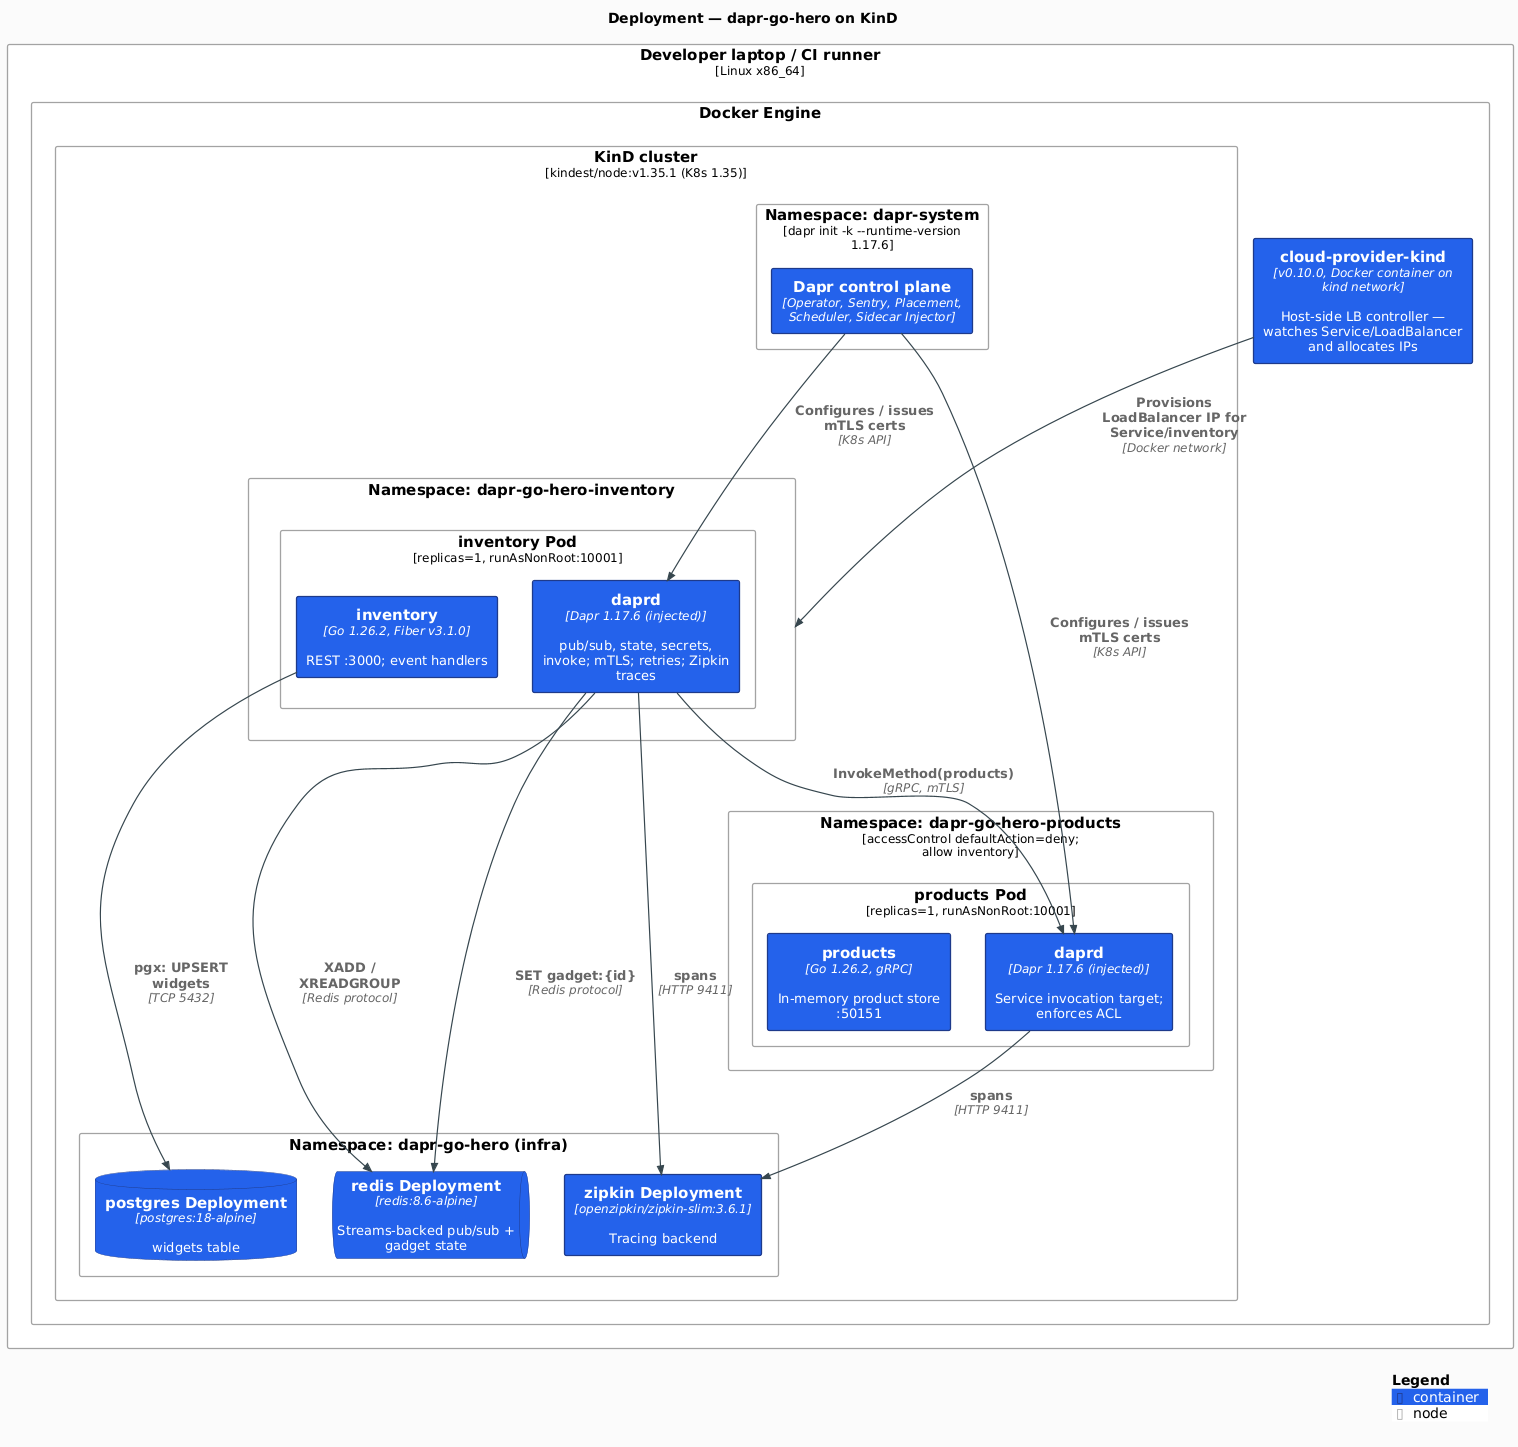
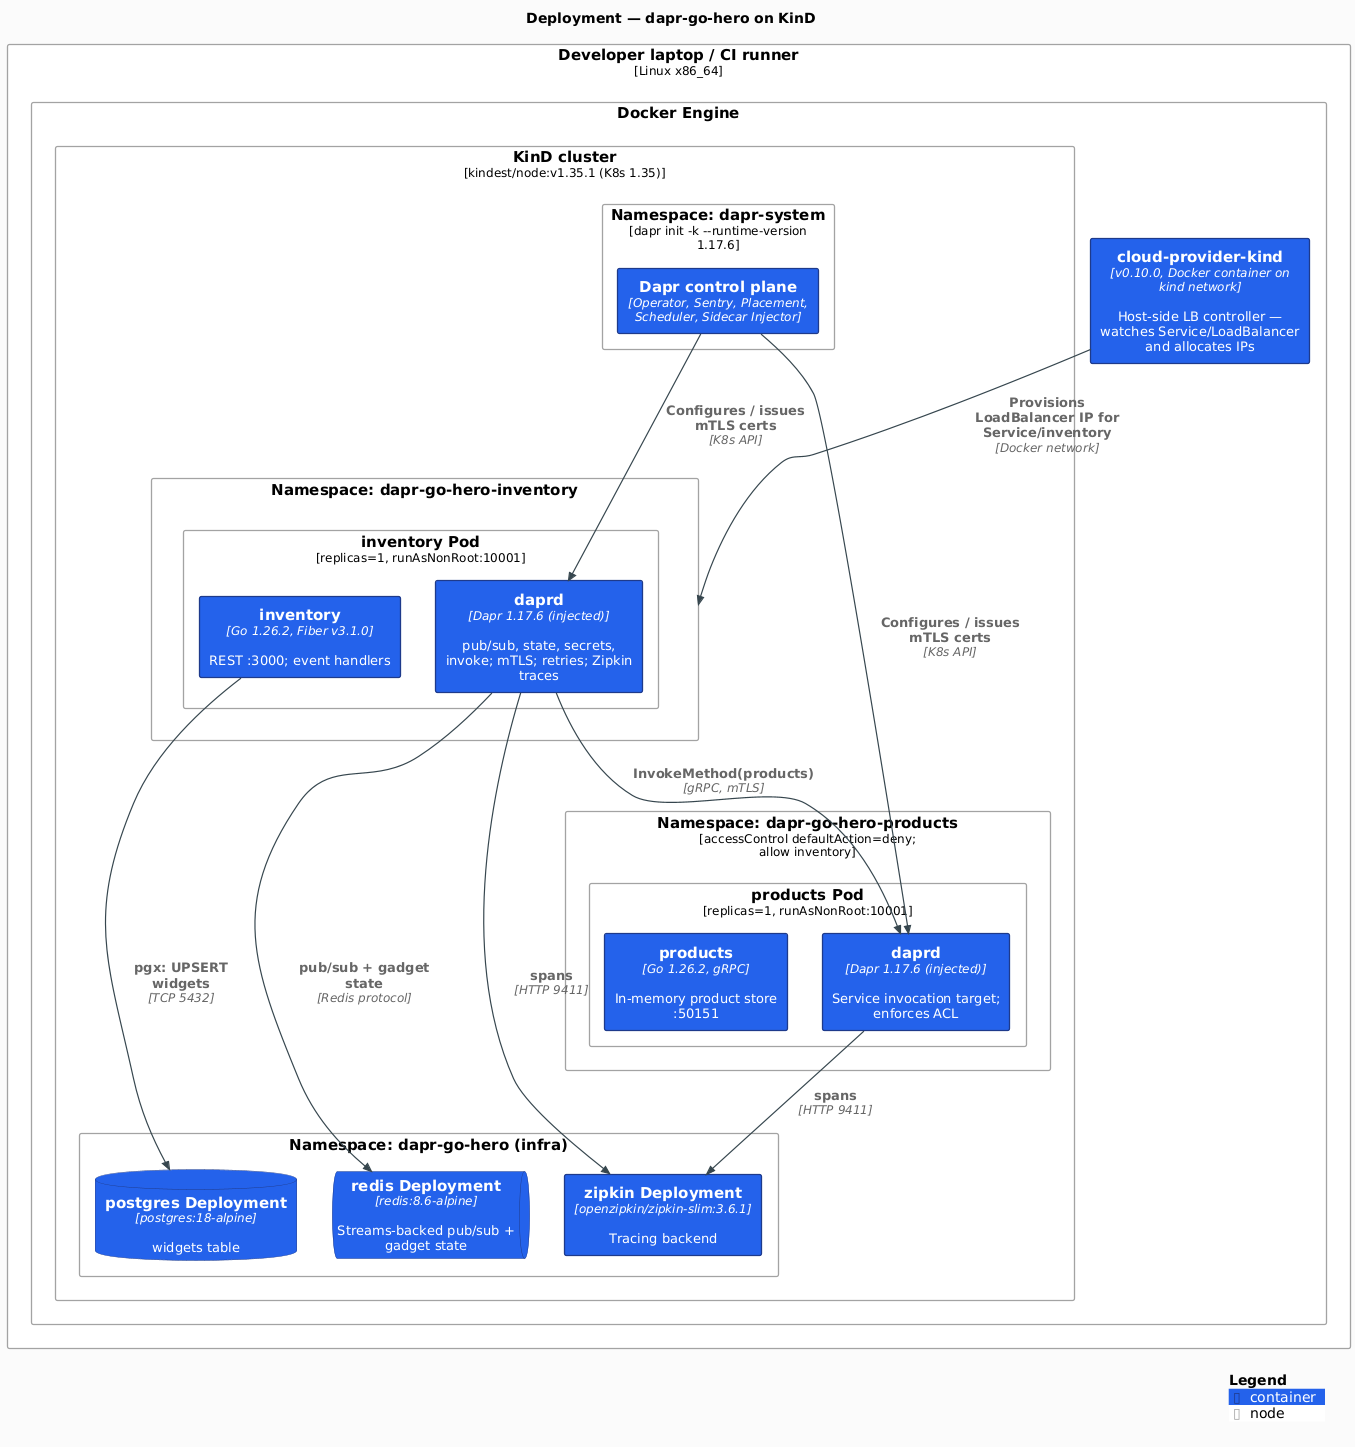
docs: tighten README + collapse duplicate-pair Rel arrows in C4 diagrams
README:
- Replace slug-as-title with descriptive H1
- Fix factual error: description said three client modes, project ships four
  (sdk-http, sdk-grpc, custom-http, custom-grpc)
- Tighten Tech Stack rationale (mise + Renovate rows), Quick Start intro,
  loadDotenv parenthetical
- Resolve duplicate Event-Flow heading collision (H2 + H3 slugged identically)
- Fold standalone "Local dev setup" H2 into Quick Start Option B

Diagrams:
- Merge per-route trigger arrows in c4-container (3 stacked arrows
  between inventory and inv_dapr -> 1 arrow with multi-line label)
- Merge bidirectional redis arrows + pub/sub vs state arrows into
  Rel_Neighbor (drops c4-container from 26 -> 21 elements)
- Same merge applied to c4-deployment (27 -> 26 elements)

No semantic loss; both diagrams still over Simon Brown's 15-element soft
cap because the multi-namespace topology is irreducible at this level.

diff --git a/README.md b/README.md
@@ -3,9 +3,9 @@
 [![License: MIT](https://img.shields.io/badge/License-MIT-brightgreen.svg)](https://opensource.org/licenses/MIT)
 [![Renovate enabled](https://img.shields.io/badge/renovate-enabled-brightgreen.svg)](https://app.renovatebot.com/dashboard#github/AndriyKalashnykov/dapr-go-hero)
 
-# dapr-go-hero
+# Dapr Building Blocks in Go — Reference Microservice Platform
 
-Reference implementation of a Go microservice platform on [Dapr](https://dapr.io), comparing three client approaches (custom HTTP, custom gRPC, Dapr Go SDK) across four Dapr building blocks: Pub/Sub with content-based routing, State Store, Secret Store, and Service Invocation. Production-ready K8s deployment with KinD + cloud-provider-kind for local parity, Testcontainers-backed integration tests, and a CI pipeline that provisions a full Dapr cluster on every PR.
+Reference implementation of a Go microservice platform on [Dapr](https://dapr.io), comparing four client modes (custom HTTP, custom gRPC, Dapr Go SDK over HTTP, Dapr Go SDK over gRPC) across four Dapr building blocks: Pub/Sub with content-based routing, State Store, Secret Store, and Service Invocation. Ships with Kubernetes manifests, KinD + cloud-provider-kind for local parity with cloud LoadBalancer behaviour, Testcontainers-backed integration tests, and a CI pipeline that provisions a full Dapr cluster on every PR.
 
 <p align="center"><img src="docs/diagrams/out/c4-context.png" alt="C4 System Context: dapr-go-hero fans CloudEvents to Redis, PostgreSQL, Zipkin, and the Kubernetes Secret API" width="720"></p>
 
@@ -25,9 +25,9 @@ Reference implementation of a Go microservice platform on [Dapr](https://dapr.io
 | Secrets | `secretstores.kubernetes` (K8s-native) | RBAC-scoped; no external Vault dependency |
 | Resiliency | Dapr `Resiliency` CRD | Declarative retries, timeouts, circuit breakers per target app/component |
 | Test layers | Unit (Go testing), Integration (Testcontainers), E2E (KinD + curl) | Each layer catches a different class of defect |
-| Tool versioning | [mise](https://mise.jdx.dev) | Single source of truth for every CLI: Go, kind, golangci-lint, gosec, hadolint, trivy, gitleaks, actionlint, shellcheck, act, protoc, protoc-gen-* — pinned in `.mise.toml`, installed by `make deps` |
+| Tool versioning | [mise](https://mise.jdx.dev) | Single source of truth for every CLI; pinned in `.mise.toml`, installed by `make deps` |
 | Code quality | golangci-lint, gosec, hadolint, mermaid-cli | Enforced via composite `make static-check` gate |
-| Dependency updates | [Renovate](https://docs.renovatebot.com/) | Built-in `gomod` / `github-actions` / `dockerfile` / `kubernetes` / `mise` managers + custom-regex coverage of Makefile constants, workflow `with:` pins, and `tests/*.sh` image pins |
+| Dependency updates | [Renovate](https://docs.renovatebot.com/) | Built-in `gomod`/`github-actions`/`dockerfile`/`kubernetes`/`mise` managers plus custom-regex coverage of Makefile constants and shell-script image pins |
 
 ## Building Blocks Demonstrated
 
@@ -40,7 +40,7 @@ Reference implementation of a Go microservice platform on [Dapr](https://dapr.io
 
 ## Quick Start
 
-Two delivery modes. Kubernetes (Option A) is closest to production; local dev (Option B) iterates faster on single-binary changes.
+Two delivery modes: Kubernetes (Option A) mirrors the production deployment path; local dev (Option B) gives a faster inner loop on single-binary changes.
 
 ### Option A — Kubernetes (KinD + cloud-provider-kind + Dapr)
 
@@ -72,19 +72,36 @@ curl http://localhost:3000/v1/products/thingamajig | jq
 
 ### Option B — Local dev (standalone binaries)
 
-Single-binary processes with a Dapr sidecar each. Useful for tight feedback loops on code changes.
+Single-binary processes with a Dapr sidecar each. Faster inner loop for code changes.
+
+One-time setup — PostgreSQL container + schema:
 
 ```bash
-make deps           # install mise + pinned tool versions
-make build          # compile both binaries
-make test           # unit tests
-make run-products   # terminal 1: products gRPC service
-make run            # terminal 2: inventory service (default: SDK HTTP mode)
-make send-all       # terminal 3: publish 3 CloudEvents
-make get-all        # query REST endpoints
+docker run --name postgres -e POSTGRES_PASSWORD=postgres -p 5432:5432 -d postgres:16
+cat tables.sql | docker exec -i postgres psql -U postgres -d postgres
 ```
 
-Local dev requires a running PostgreSQL container and `secrets.json`. See [Local dev setup](#local-dev-setup).
+Run the stack (three terminals):
+
+```bash
+make deps           # install mise + pinned tool versions (first run only)
+make build          # compile both binaries
+
+# Terminal 1
+make run-products
+
+# Terminal 2 — pick a client mode
+make run-sdk-http      # Dapr Go SDK over HTTP (default via `make run`)
+make run-sdk-grpc      # Dapr Go SDK over gRPC
+make run-custom-http   # custom HTTP client
+make run-custom-grpc   # custom gRPC client
+
+# Terminal 3 — publish CloudEvents, then query REST API
+make send-all
+make get-all
+```
+
+Each `run-*` target maps to a different code path in `cmd/inventory/main.go` and exercises the same `state.Store` / `secrets.Store` interfaces through a different transport.
 
 ## Prerequisites
 
@@ -111,7 +128,7 @@ Local dev requires a running PostgreSQL container and `secrets.json`. See [Local
 | Tool | Version | Purpose |
 |------|---------|---------|
 | [Dapr CLI](https://docs.dapr.io/getting-started/install-dapr-cli/) | 1.17+ | `dapr init` provides self-hosted Redis + Zipkin |
-| PostgreSQL | 16+ | Run as Docker container, see [Local dev setup](#local-dev-setup) |
+| PostgreSQL | 16+ | Run as Docker container, see [Quick Start → Option B](#option-b--local-dev-standalone-binaries) |
 
 **Tooling auto-installed via mise** (`make deps` reads `.mise.toml`):
 
@@ -143,7 +160,7 @@ Dapr pub/sub callbacks (e.g., `/widgets.v1`) are delivery mechanics, not a publi
 
 ### Configuration surface
 
-`pkg/config/config.go` centralizes every host/port/app-id behind env vars with sensible defaults. A small built-in `loadDotenv` helper reads `.env` on startup without overwriting existing process env vars (zero dependencies — the helper is ~20 lines in `pkg/config/config.go`). K8s deployments set the same keys via `env:` in the pod spec — one source of truth, two consumers.
+`pkg/config/config.go` centralizes every host/port/app-id behind env vars with sensible defaults. A built-in `loadDotenv` helper reads `.env` at startup without overwriting existing process env vars (zero dependencies). K8s deployments set the same keys via `env:` in the pod spec — one source of truth, two consumers.
 
 ### Test pyramid
 
@@ -253,7 +270,7 @@ graph TB
   class IPOD,PPOD emphasis
 ```
 
-### Event Flow (CloudEvent → 3 routes)
+### Publish-to-delivery sequence
 
 ```mermaid
 %%{init: {'theme':'base','themeVariables':{'background':'#FFFFFF','fontFamily':'ui-sans-serif, system-ui, sans-serif','primaryColor':'#FFFFFF','primaryTextColor':'#000000','primaryBorderColor':'#0070E5','actorBkg':'#FFFFFF','actorBorder':'#0070E5','actorTextColor':'#000000','actorLineColor':'#0070E5','signalColor':'#0070E5','signalTextColor':'#0070E5','labelBoxBkgColor':'#0070E5','labelBoxBorderColor':'#0070E5','labelTextColor':'#FFFFFF','loopTextColor':'#0070E5','noteBkgColor':'#FFFFFF','noteBorderColor':'#0070E5','noteTextColor':'#000000','altBackground':'#FFFFFF','activationBkgColor':'#0070E5','activationBorderColor':'#0070E5','sequenceNumberColor':'#FFFFFF'}}}%%
@@ -325,34 +342,6 @@ Multi-stage Alpine with BuildKit cache mounts. Post-initial build, `make docker-
 - **cloud-provider-kind** — kind-team-maintained host-side controller that watches `Service` objects of type `LoadBalancer` and allocates IPs on the `kind` Docker network. Replaces MetalLB: no in-cluster DaemonSet, no IPAddressPool/L2Advertisement CRDs, works across all supported `kindest/node` versions without release-track drift.
 - **Dapr runtime** via `dapr init -k --runtime-version $(DAPR_RUNTIME_VERSION)` — Operator, Sentry, Placement, Scheduler, Sidecar Injector, pinned to the same version CI uses
 - **Dapr Dashboard** — cluster inspection UI
-
-## Local dev setup
-
-See [Quick Start → Option A](#option-a--kubernetes-kind--cloud-provider-kind--dapr) for the Kubernetes flow. For standalone binaries:
-
-```bash
-docker run --name postgres -e POSTGRES_PASSWORD=postgres -p 5432:5432 -d postgres:16
-cat tables.sql | docker exec -i postgres psql -U postgres -d postgres
-```
-
-Start services (three terminals):
-
-```bash
-# Terminal 1
-make run-products
-
-# Terminal 2 — pick a client mode
-make run-custom-http   # custom HTTP client
-make run-custom-grpc   # custom gRPC client
-make run-sdk-http      # Dapr Go SDK over HTTP (default via `make run`)
-make run-sdk-grpc      # Dapr Go SDK over gRPC
-
-# Terminal 3 — publish events, then query
-make send-all
-make get-all
-```
-
-Each `run-*` target maps to a different code path in `cmd/inventory/main.go` and exercises the same interfaces (`state.Store`, `secrets.Store`) through a different transport.
 
 ## Available Make Targets
 
